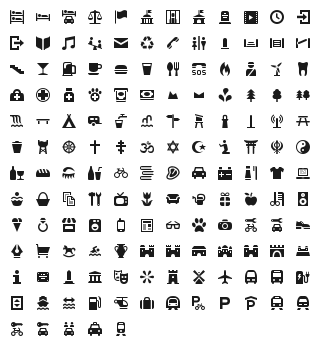
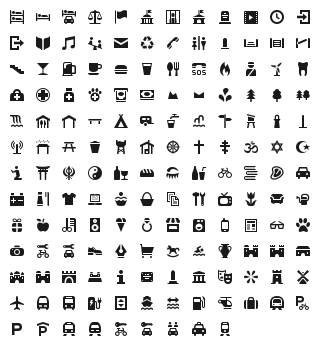
add first version of alpine hut, basic hut, shelter, wilderness hut

diff --git a/README.md b/README.md
@@ -1,6 +1,6 @@
 # Osmic (OSM Icons)
 
-A collection of 149+ clean high quality SVG map icons licensed under [CC0](https://creativecommons.org/publicdomain/zero/1.0/) (Public Domain) and also available as [icon font](https://github.com/gmgeo/osmic/tree/master/font), which is licensed under [SIL OFL](http://scripts.sil.org/OFL). Below you see a possible preview (these are 2x the [original size](https://github.com/gmgeo/osmic/raw/master/icons.png)).
+A collection of 150+ clean high quality SVG map icons licensed under [CC0](https://creativecommons.org/publicdomain/zero/1.0/) (Public Domain) and also available as [icon font](https://github.com/gmgeo/osmic/tree/master/font), which is licensed under [SIL OFL](http://scripts.sil.org/OFL). Below you see a possible preview (these are 2x the [original size](https://github.com/gmgeo/osmic/raw/master/icons.png)).
 
 ![Osmic (OSM Icons)](https://github.com/gmgeo/osmic/raw/master/icons@2x.png "Available icons")
 
